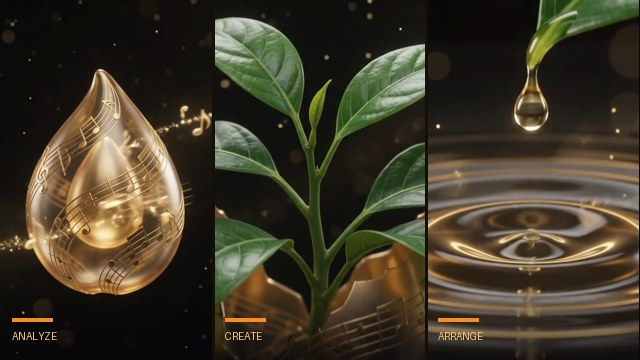
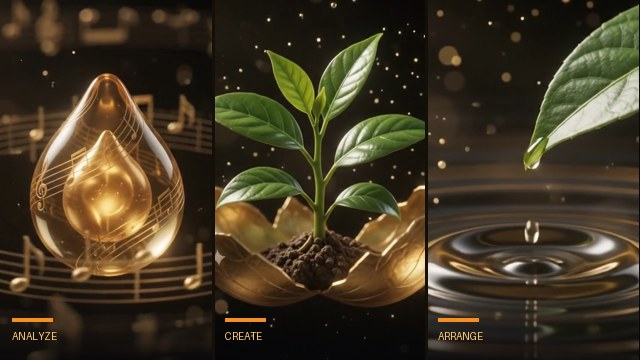
Design 10: use 3 real dedicated per-phase videos (video vs drawn)
Swap the 3-phase loader onto real footage — one dedicated video per phase
(video1 Music Seed / video2 sprouting shell / video3 dew drop) instead of clips
cut from one cinematic. Each phase plays its video and soft-loops it (crossfade
at the loop seam so it can wait any length), crossfading on phase hand-off.
Step-dots + captions per phase; auto-advances in the demo, backend-driven for
real. Verified all 3 videos load, cycle 1->2->3, soft-loop restart works, and
render the right footage. Refreshed poster from the real videos; removed the
now-unused intro/loop clips.

diff --git a/video-phases.html b/video-phases.html
@@ -49,7 +49,7 @@
 <body>
   <h1>🎬 3-phase video loader — each segment loops</h1>
   <div class="stage">
-    <video id="v" poster="assets/cinematic_poster.jpg" loop muted playsinline preload="auto"></video>
+    <video id="v" poster="assets/cinematic_poster.jpg" muted playsinline preload="auto"></video>
     <div class="flash" id="flash"></div>
     <div class="top-fade"></div><div class="bot-fade"></div><div class="vig"></div>
     <div class="brand"><span class="dot"></span><b>1Pro Studio · Seed of Sounds</b></div>
@@ -59,51 +59,46 @@
       <div class="sub"><span id="subtext">Listening to your idea</span><span class="dots"></span></div>
     </div>
   </div>
-  <p class="lede">Each phase plays a short intro once, then loops a tight ambient tail (phase 1 keeps the sound-wave swirling around the note) until that phase is done — then it hands off. Here it auto-advances every ~7s to demo; in the app the backend ends each phase.</p>
+  <p class="lede">Real footage, not drawn: each phase plays its own dedicated video (Music Seed · Sprout · Dew Drop), looping until that phase finishes — with a soft crossfade at the loop seam so it can wait any length, and another when it hands off to the next phase. Here it auto-advances to demo; in the app the backend ends each phase.</p>
 
 <script>
 (function () {
   const v = document.getElementById('v'), flash = document.getElementById('flash');
   const phaseEl = document.getElementById('phase'), subEl = document.getElementById('subtext');
   const seg = [document.getElementById('s0'), document.getElementById('s1'), document.getElementById('s2')];
-  // each phase = an intro clip (plays once) + a boomerang tail that loops until the phase ends.
-  // the loop clip starts on the intro's last frame, so the hand-off is seamless.
+  // one dedicated video per phase
   const P = [
-    { in: 'assets/p1_in.mp4', loop: 'assets/p1_loop.mp4', name: 'Analyze & Nurture', sub: 'Listening to your idea' },
-    { in: 'assets/p2_in.mp4', loop: 'assets/p2_loop.mp4', name: 'Create & Grow',     sub: 'Composing the melody' },
-    { in: 'assets/p3_in.mp4', loop: 'assets/p3_loop.mp4', name: 'Arrange & Drop',    sub: 'Mixing your track' },
+    { src: 'assets/video1.mp4', name: 'Analyze & Nurture', sub: 'Listening to your idea' },
+    { src: 'assets/video2.mp4', name: 'Create & Grow',     sub: 'Composing the melody' },
+    { src: 'assets/video3.mp4', name: 'Arrange & Drop',    sub: 'Mixing your track' },
   ];
-  const DWELL = 7000;                // ms per phase in this auto-demo (the backend ends each phase for real)
-  let cur = -1, timer = null, looping = false;
+  const DWELL = 11000;               // ms per phase in this auto-demo (the backend ends each phase for real)
+  let cur = -1, timer = null, seaming = false;
 
-  function play(src, loop) { v.src = src; v.loop = loop; v.load(); v.play().catch(() => {}); }
-
+  function seam(fn) {                 // crossfade a hard cut behind a quick dim
+    if (seaming) return; seaming = true; flash.style.opacity = 0.85;
+    setTimeout(() => { fn(); flash.style.opacity = 0; setTimeout(() => { seaming = false; }, 160); }, 150);
+  }
   function setPhase(i) {
-    const first = cur < 0; cur = i; looping = false;
+    const first = cur < 0; cur = i;
     phaseEl.style.opacity = 0; subEl.parentElement.style.opacity = 0;
     setTimeout(() => { phaseEl.textContent = P[i].name; subEl.textContent = P[i].sub;
       phaseEl.style.opacity = 1; subEl.parentElement.style.opacity = 1; }, first ? 0 : 200);
-    seg.forEach((el, k) => { el.classList.toggle('done', k < i); el.classList.remove('wait');
+    seg.forEach((el, k) => { el.classList.toggle('done', k < i);
       el.firstElementChild.style.width = k < i ? '100%' : '0%'; });
-    // start the intro (masked by a brief flash on phase change)
-    flash.style.opacity = first ? 0 : 0.85;
-    setTimeout(() => { play(P[i].in, false); flash.style.opacity = 0; }, first ? 0 : 150);
+    const go = () => { v.src = P[i].src; v.load(); v.play().catch(() => {}); };
+    if (first) go(); else seam(go);
     clearTimeout(timer); timer = setTimeout(() => setPhase((cur + 1) % 3), DWELL);
   }
-
-  // intro finished -> roll into the ambient tail loop (seamless, no flash)
-  v.addEventListener('ended', () => {
-    if (cur < 0 || looping) return; looping = true;
-    play(P[cur].loop, true);
-    seg[cur].classList.add('wait');
-  });
-
-  function bar() {                    // fill the step during the intro; shimmer handles the loop
-    if (cur >= 0 && !looping && v.duration)
-      seg[cur].firstElementChild.style.width = Math.max(0, Math.min(1, v.currentTime / v.duration)) * 100 + '%';
-    requestAnimationFrame(bar);
+  function raf() {                    // fill the phase's progress; soft-loop the clip while waiting
+    if (cur >= 0 && v.duration) {
+      const ct = v.currentTime, d = v.duration;
+      seg[cur].firstElementChild.style.width = Math.max(0, Math.min(1, ct / d)) * 100 + '%';
+      if (!seaming && ct >= d - 0.25) seam(() => { v.currentTime = 0; v.play().catch(() => {}); });
+    }
+    requestAnimationFrame(raf);
   }
-  setPhase(0); requestAnimationFrame(bar);
+  setPhase(0); requestAnimationFrame(raf);
 })();
 </script>
 </body>

diff --git a/index.html b/index.html
@@ -332,9 +332,9 @@
       <div class="card-body">
         <div class="card-no">Design 10</div>
         <h2>3-Phase Video Loader</h2>
-        <p>Each phase plays a short intro once, then loops a tight ambient tail (a seamless boomerang) until that phase finishes — so a slow phase just keeps looping, then hands off. Step-dots shimmer on the active phase; the backend ends each phase, here it auto-advances.</p>
+        <p>Real footage, not drawn: each phase plays its own dedicated video — Music Seed, sprouting shell, dew drop — looping (soft crossfade at the seam) until that phase finishes, then crossfading to the next. Step-dots track progress; the backend ends each phase, here it auto-advances.</p>
         <div class="tags">
-          <span class="tag">🎬 Intro + loop</span>
+          <span class="tag">🎥 3 real videos</span>
           <span class="tag">♾️ Waits any length</span>
           <span class="tag">📊 Step progress</span>
         </div>